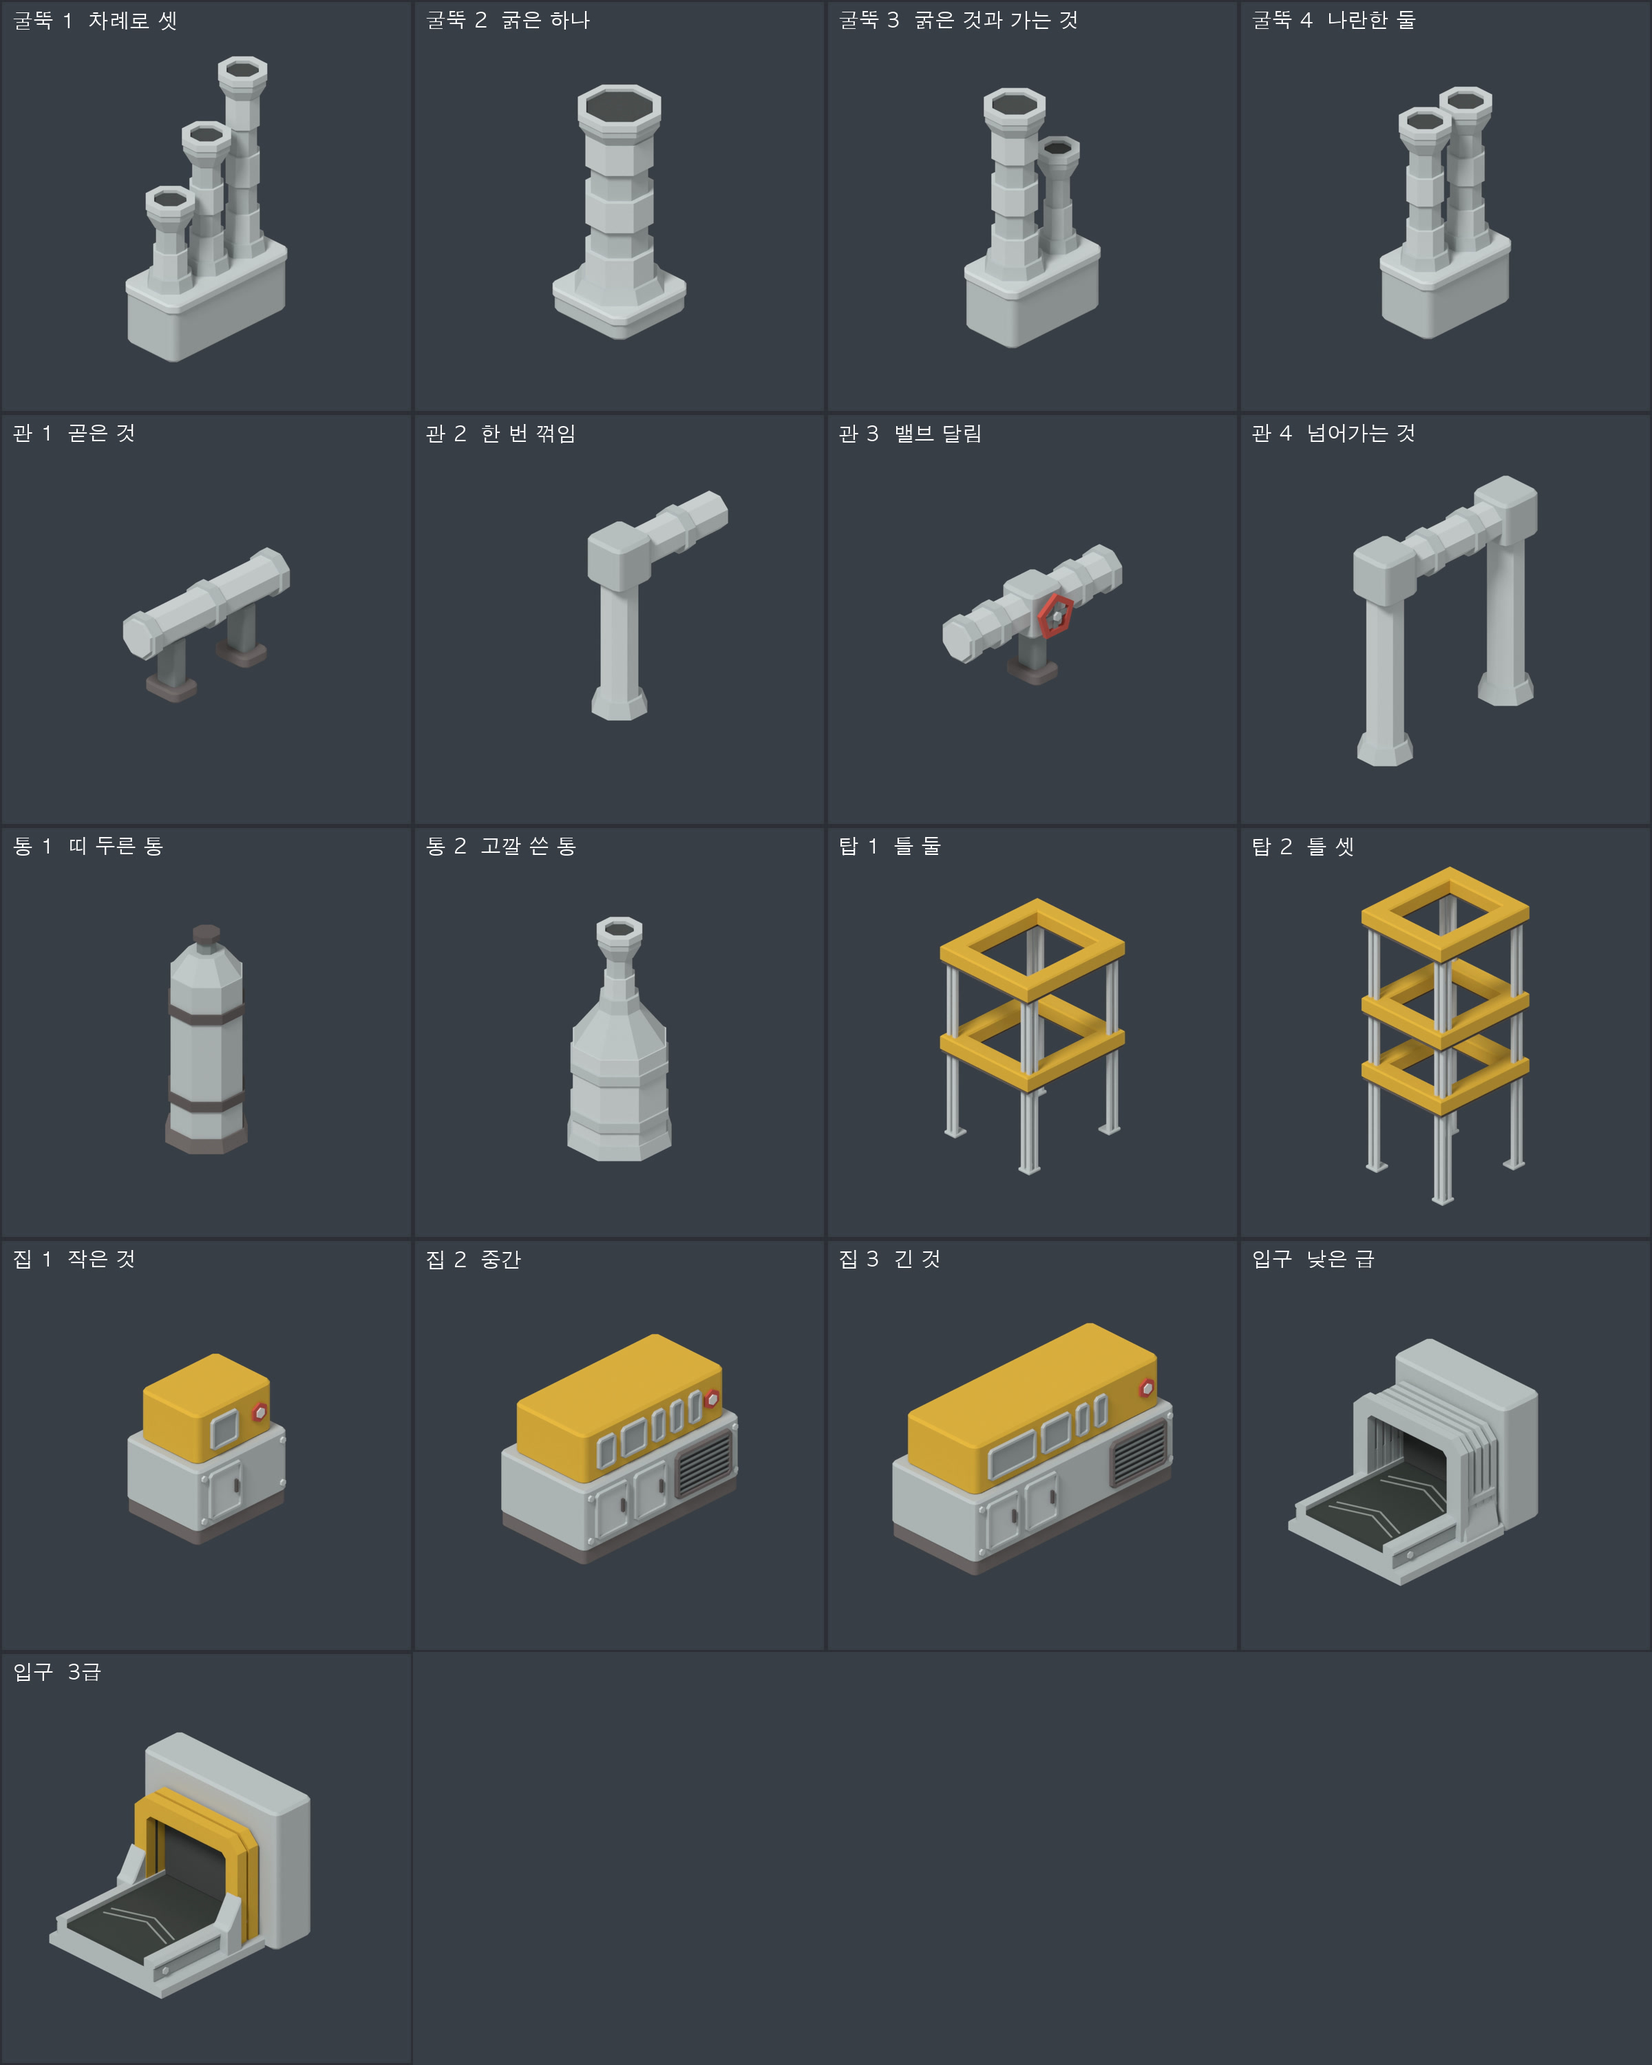
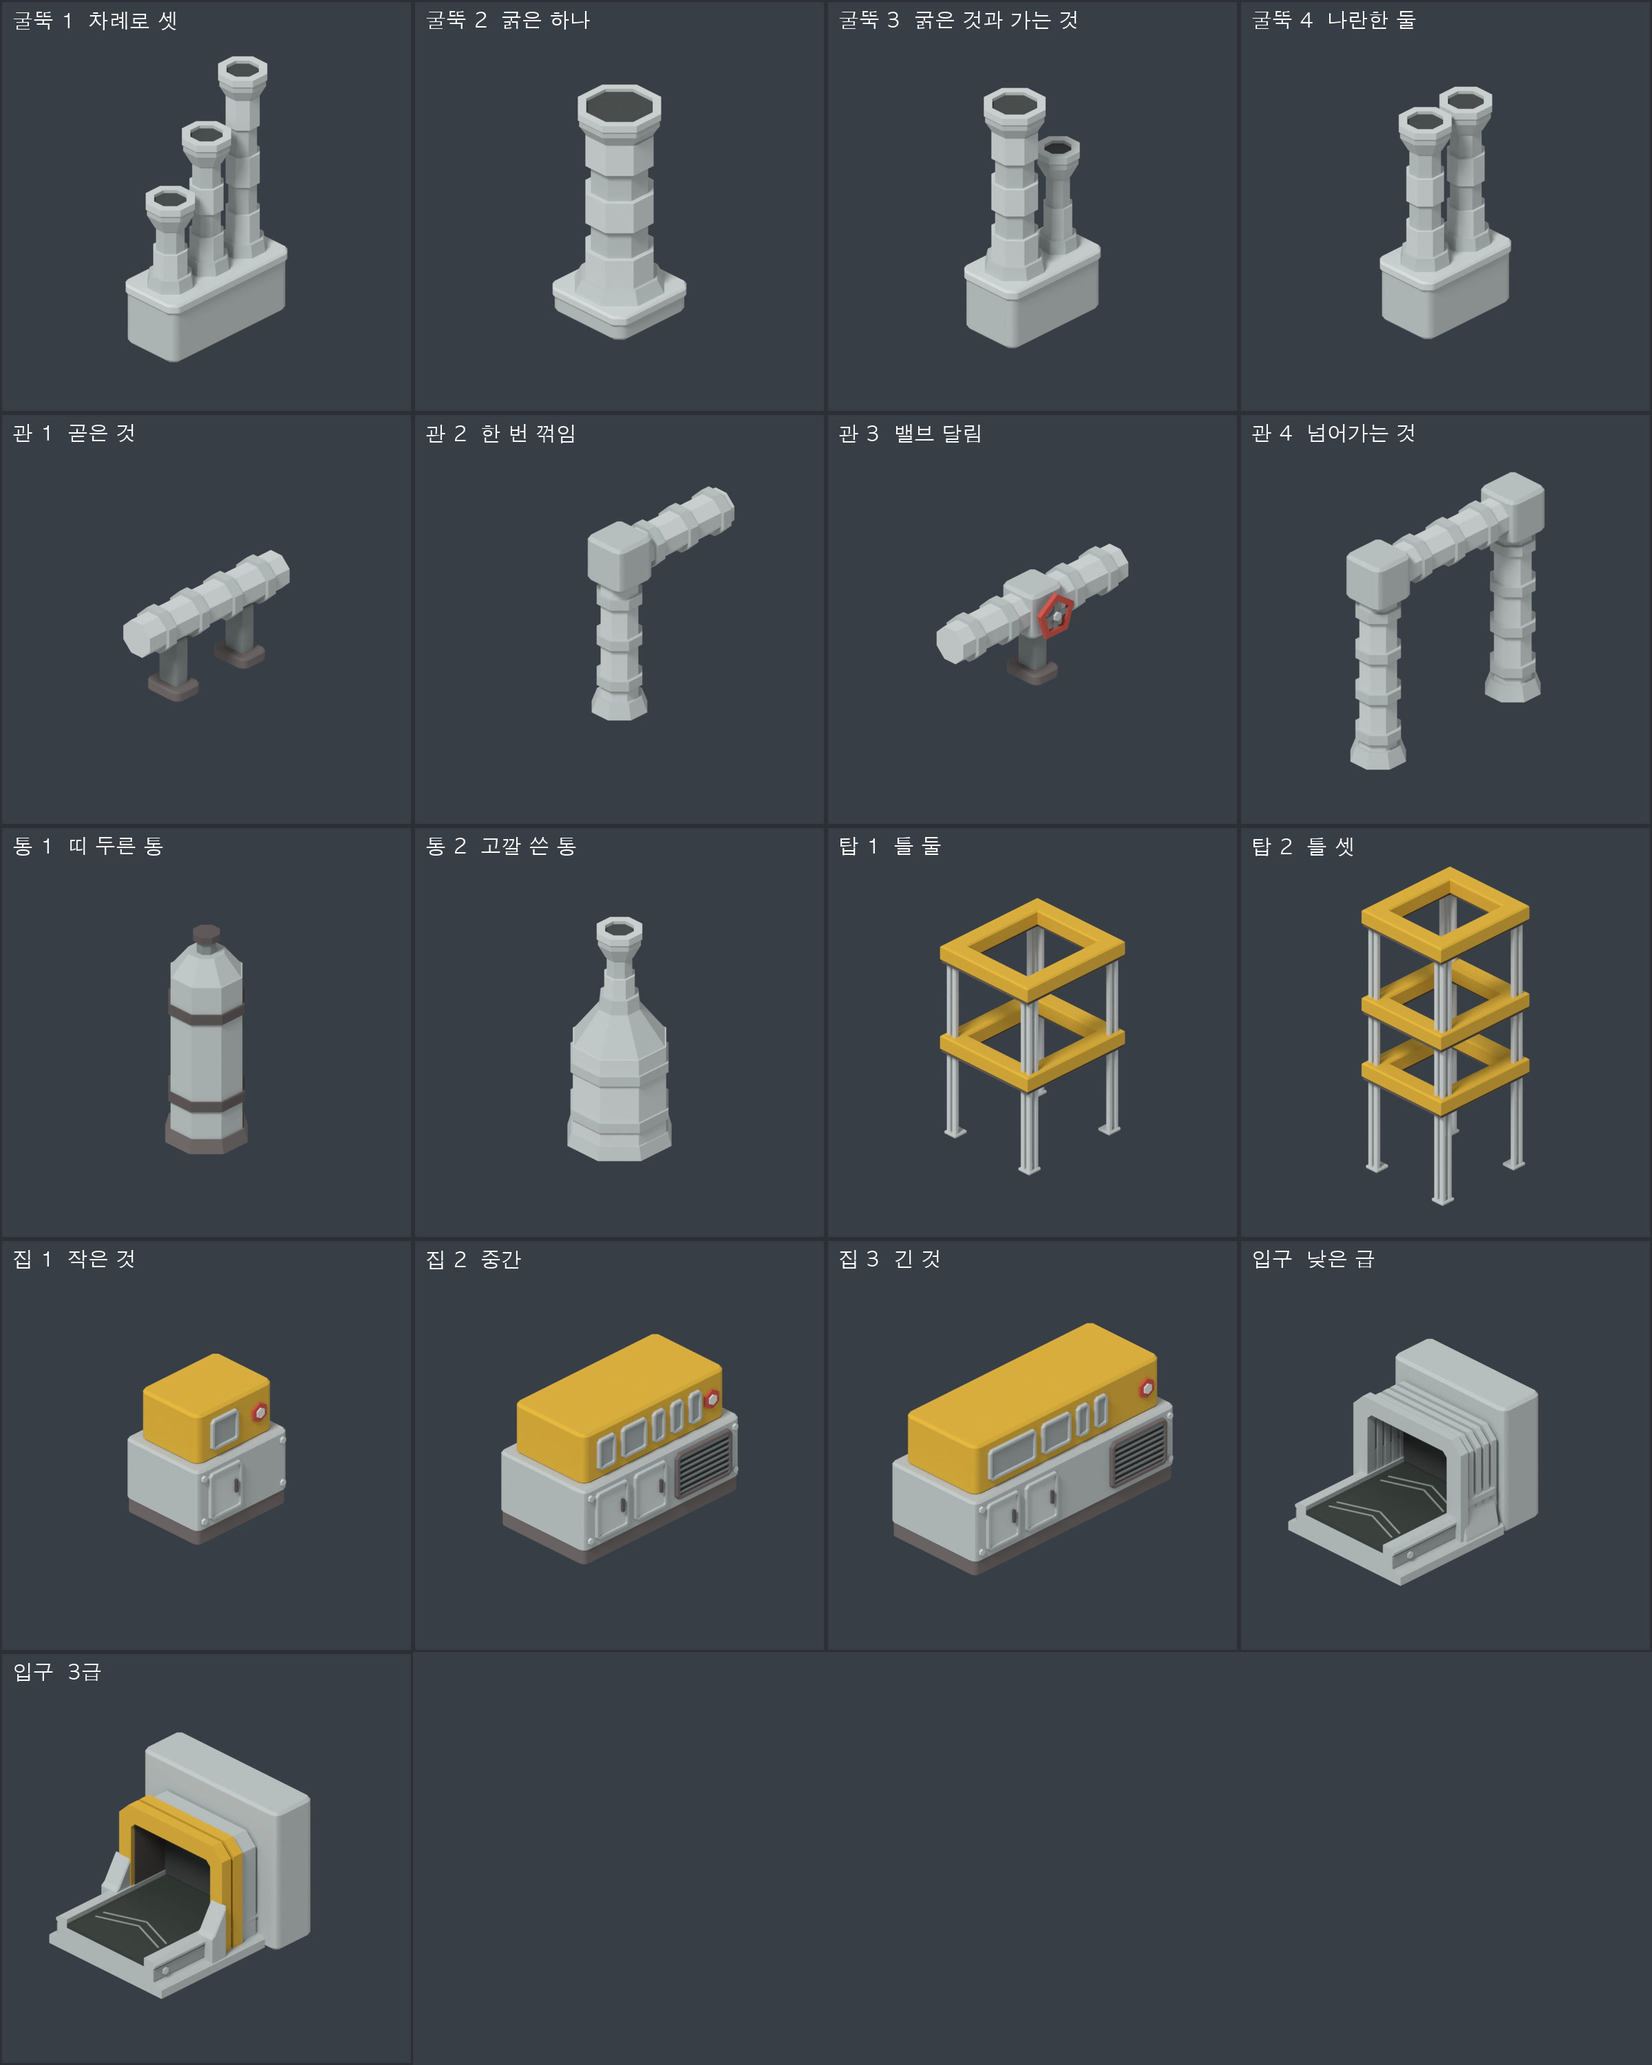
Kit: a deep grade 3 mouth, and every pipe ringed at a regular pitch
The developer on the first catalogue: the grade 3 mouth looked as if
things passed through a wall, where the low grades' cover swallows them;
and no pipe is ever to be plain, the rings repeating along it. mouth3
takes a depth: at 0.32 the painted arches stand out on a grey sleeve
over a dark throat, the tunnel's dark end back at the wall. Every fat
duct in the kit, lying or standing, carries a ring every 0.26.

Claude-Session: https://claude.ai/code/session_01W5XMnWw2PL68atZgiMiQxw

diff --git a/art/v2/kitset.py b/art/v2/kitset.py
@@ -10,8 +10,8 @@
 #   houses   k_house_s, k_house_m, k_house_l
 #   mouths   k_mouth_low (the ribbed folding cover of the low grades), k_mouth3 (grade 3)
 #
-# Joints: a fat duct is 0.105 in radius everywhere; a plenum is 0.36 high and takes a duct in a plain wall
-# 0.18 above its foot; a box elbow is 0.28 on a side.
+# Joints: a fat duct is 0.105 in radius everywhere and carries a ring every 0.26 along it, never plain;
+# a plenum is 0.36 high and takes a duct in a plain wall 0.18 above its foot; a box elbow is 0.28 on a side.
 import math
 from . import hero as _hero
 from . import set2 as s2
@@ -55,10 +55,32 @@ def k_stack_row2(m, z0=0.0):
         s2.fat_stack(m, x, 0, pz, z0 + 1.25, 0.105, foot=0.035)
 
 
-def _run_x(m, x0, x1, y, z, collars=()):
+PITCH = 0.26             # every fat pipe carries a ring at this pitch (the developer: no pipe is ever plain;
+RING = 0.06              # the rings repeat along it, as they do on the former's duct)
+
+
+def _ring_at(lo, hi, clear=0.07):
+    """Where the rings stand on a pipe from lo to hi: at the pitch, centred on the pipe, clear of its ends."""
+    n = max(1, int((hi - lo - 2 * clear) / PITCH) + 1)
+    mid = (lo + hi) / 2
+    return [mid + (k - (n - 1) / 2) * PITCH for k in range(n)]
+
+
+def _run_x(m, x0, x1, y, z, skip=()):
+    """A fat duct along x, ringed at the pitch. `skip` lists (lo, hi) stretches where something else sits
+    on the pipe (a valve), and no ring is put there."""
     m.cyl(RD * s2.K, x1 - x0, ((x0 + x1) / 2, y, z), s2.LT, seg=8, axis="X", rot=(s2.rad(22.5), 0, 0))
-    for x in collars:
-        m.cyl((RD + 0.022) * s2.K, 0.06, (x, y, z), s2.G, seg=8, axis="X", rot=(s2.rad(22.5), 0, 0))
+    for x in _ring_at(x0, x1):
+        if not any(lo - RING <= x <= hi + RING for lo, hi in skip):
+            m.cyl((RD + 0.022) * s2.K, RING, (x, y, z), s2.G, seg=8, axis="X", rot=(s2.rad(22.5), 0, 0))
+
+
+def _run_y(m, y0, y1, x, z, skip=()):
+    """The same along y."""
+    m.cyl(RD * s2.K, y1 - y0, (x, (y0 + y1) / 2, z), s2.LT, seg=8, axis="Y", rot=(0, s2.rad(22.5), 0))
+    for y in _ring_at(y0, y1):
+        if not any(lo - RING <= y <= hi + RING for lo, hi in skip):
+            m.cyl((RD + 0.022) * s2.K, RING, (x, y, z), s2.G, seg=8, axis="Y", rot=(0, s2.rad(22.5), 0))
 
 
 def _pier(m, x, y, top):
@@ -73,28 +95,31 @@ def _elbow(m, x, y, z):
 
 
 def _riser(m, x, y, z0, z1):
+    """A fat duct standing up out of a flared foot, ringed at the pitch."""
     with m.at((x, y, 0)):
         s2.octa(m, RD + 0.05, RD + 0.02, z0 - 0.01, z0 + 0.08, s2.G)
         s2.octa(m, RD, RD, z0 + 0.07, z1, s2.LT)
+        for z in _ring_at(z0 + 0.08, z1):
+            s2.octa(m, RD + 0.022, RD + 0.022, z - RING / 2, z + RING / 2, s2.G)
 
 
 def k_pipe_straight(m, L=1.1, z=0.45):
-    """Pipe, straight: a fat duct on two piers, a collar at each end and one in the middle."""
-    _run_x(m, -L / 2, L / 2, 0, z, collars=(-L / 2 + 0.05, 0.0, L / 2 - 0.05))
-    for x in (-L / 4, L / 4):
+    """Pipe, straight: a fat ringed duct on two piers."""
+    _run_x(m, -L / 2, L / 2, 0, z)
+    for x in (-PITCH, PITCH):
         _pier(m, x, 0, z - RD + 0.01)
 
 
-def k_pipe_elbow(m, H=0.95, L=0.75, z0=0.0):
-    """Pipe, one turn: up out of a foot, through a box elbow, and away level."""
+def k_pipe_elbow(m, H=0.95, L=0.80, z0=0.0):
+    """Pipe, one turn: up out of a foot, through a box elbow, and away level, ringed all the way."""
     _riser(m, 0, 0, z0, z0 + H - 0.13)
     _elbow(m, 0, 0, z0 + H)
-    _run_x(m, 0.14 - 0.01, L, 0, z0 + H, collars=((0.14 + L) / 2,))
+    _run_x(m, 0.14 - 0.01, L, 0, z0 + H)
 
 
-def k_pipe_valve(m, L=1.2, z=0.45):
-    """Pipe, with a valve: a fat duct through a valve box with a five-sided handwheel, the box on a pier."""
-    _run_x(m, -L / 2, L / 2, 0, z, collars=(-L / 2 + 0.05, -L / 4 - 0.02, L / 4 + 0.02, L / 2 - 0.05))
+def k_pipe_valve(m, L=1.3, z=0.45):
+    """Pipe, with a valve: a fat ringed duct through a valve box with a five-sided handwheel, the box on a pier."""
+    _run_x(m, -L / 2, L / 2, 0, z, skip=((-0.13, 0.13),))
     with m.at((0, 0, 0)):
         s2.slab(m, 0.13, 0.13, z - 0.14, z + 0.14, 0.03, s2.G, bevel=0.02)
     _pier(m, 0, 0, z - 0.13)
@@ -102,12 +127,12 @@ def k_pipe_valve(m, L=1.2, z=0.45):
         s2.handwheel(m, 0.14)
 
 
-def k_pipe_bridge(m, H=1.15, L=0.95, z0=0.0):
-    """Pipe, over: up, across through two box elbows, and down again (the former's duct)."""
+def k_pipe_bridge(m, H=1.15, L=1.06, z0=0.0):
+    """Pipe, over: up, across through two box elbows, and down again (the former's duct), ringed all the way."""
     for x in (-L / 2, L / 2):
         _riser(m, x, 0, z0, z0 + H - 0.13)
         _elbow(m, x, 0, z0 + H)
-    _run_x(m, -L / 2 + 0.13, L / 2 - 0.13, 0, z0 + H, collars=(-L / 6, L / 6))
+    _run_x(m, -L / 2 + 0.13, L / 2 - 0.13, 0, z0 + H)
 
 
 def k_drum_band(m, z0=0.0):
@@ -214,9 +239,10 @@ def k_mouth_low(m):
 
 
 def k_mouth3(m, paint=None):
-    """Mouth of grade 3: two painted arches with a dark seam, each rail rising into the arch's leg."""
-    s2.belt_stub(m, -0.9, 0.02, -0.55, -0.80)
-    s2.mouth3(m, 0.0, -1, paint or s2.PY)
+    """Mouth of grade 3: two painted arches with a dark seam on a sleeve, a dark throat behind them, each
+    rail rising into the arch's leg."""
+    s2.belt_stub(m, -0.9, 0.02, -0.62, -0.80)
+    s2.mouth3(m, 0.0, -1, paint or s2.PY, depth=0.32)       # as deep as the low grades' cover, so that things go in, not through
     with m.at((0.19, 0, 0)):
         _stub_wall(m, 0.60, 1.0)
 

diff --git a/art/v2/set2.py b/art/v2/set2.py
@@ -3612,23 +3612,34 @@ mill10.frame, mill10.shadow, mill10.res = {"iso": (5.6, 1.45), "side": (5.0, 1.5
 _hero.HEROES["mill10"] = mill10
 
 
-def mouth3(m, xa, d, paint):
+def mouth3(m, xa, d, paint, depth=0.182):
     """The grade 3 mouth, to be built with the belt's middle at y = 0: two painted arches with a dark
     seam between them standing proud of the wall at xa (opening toward d), the tunnel's dark, and each
     rail rising in its own colour into the arch's leg. The developer's rule: every conveyor mouth of
     one grade looks the same (grade 1 machines such as the smelter share the ribbed folding cover,
-    d.cover; grade 2 and grade 3 each have their own), so every grade 3 machine calls this."""
+    d.cover; grade 2 and grade 3 each have their own), so every grade 3 machine calls this.
+    With depth above 0.182 the painted arches stand that far out from the wall on a plain grey sleeve,
+    the throat behind them is lined dark, and the tunnel's dark end stays back at the wall: the
+    developer found the shallow mouth looked as if things passed through a wall, where the low grades'
+    cover swallows them (0.318 deep). 0.32 matches it. Returns how far out the mouth's face stands."""
     g = 2 * (BH - 0.305)
-    px = xa
+    sleeve = max(0.0, depth - 0.182)
+    if sleeve:
+        a_, b_ = sorted((xa, xa + d * sleeve))
+        m.prism(arch_pts(0.80 + g, 0.80, hole_top=0.702, hw=BH + 0.012, c=0.085, ci=0.035), a_, b_, "X", G)
+        a_, b_ = sorted((xa + d * 0.02, xa + d * (depth - 0.03)))                                         # the throat's dark lining
+        m.prism(arch_pts(2 * (BH + 0.03), 0.72, hole_top=0.694, hw=BH + 0.004, c=0.05, ci=0.035), a_, b_, "X", TD)
+    px = xa + d * sleeve
     for th, w, tp, mk in ((0.08, 0.84 + g, 0.82, paint), (0.022, 0.79 + g, 0.795, SLIT), (0.08, 0.84 + g, 0.82, paint)):
         a_, b_ = sorted((px, px + d * th))
         m.prism(arch_pts(w, tp, hole_top=0.70, hw=BH + 0.01, c=0.085, ci=0.035), a_, b_, "X", mk)
         px += d * th
     m.box((0.02, 2 * BH + 0.01, 0.694 - BZ), (xa + d * 0.012, 0, (0.706 + BZ) / 2), SLIT)
-    xo = xa + d * 0.182
+    xo = xa + d * depth
     for sy_ in SIDES:
         pts = [(xo - d * 0.006, 0.03), (xo + d * 0.13, 0.03), (xo + d * 0.13, 0.24), (xo + d * 0.10, 0.262), (xo - d * 0.006, 0.44)]
         bprism(m, pts if d > 0 else pts[::-1], *sorted((sy_ * 0.358, sy_ * 0.494)), "Y", R, bevel=0.008)
+    return depth
 
 
 def mill11(m, paint="h_p1"):

diff --git a/docs/modeling-principles.md b/docs/modeling-principles.md
@@ -52,6 +52,8 @@
 - **새 기계는 만들기 전에 생김새부터 이야기합니다.** 한 기계가 확정됐다고 다음 기계를 같은 틀로 바로 만들지 않습니다(개발자: "생김새부터 일단 생각을 좀 해보자고.. 바로 만들지 말고").
 - **기계는 한 대씩 따로 설계하고, 그 기계가 하는 일이 보이게 합니다 [개발자 결정, 2026-10-09].** 아일랜드는 공통 몸통에 덩어리 하나와 색만 바꿔 기계를 구분합니다(제철소와 청동 정련소는 앞 절반이 같은 모델). 그래서 개발자의 말대로 "제철소 느낌이 확실히 나지는 않고 그냥 들어갔다 나오는 기계처럼" 보입니다. 우리는 그 길을 가지 않습니다: "(기계마다 따로 하는 쪽이) 진정성이 보이긴 하지." 부품의 말씨(`former5`의 부품)는 함께 쓰되, 형태는 기계마다 그 일에서 나옵니다.
 - **하는 일을 그림처럼 보여 주려 애쓰지 않습니다 [개발자 결정, 2026-10-09].** 위의 "그 기계가 하는 일이 보이게"를 제철소에 적용해 실제 공정(고로, 전로, 도가니, 전기로)을 차례로 따져 봤고, 개발자가 실제 전기로의 모습을 찾아본 뒤 "ㅈㄴ 짜치게 생겼다"며 접었습니다. 결론: "그냥 우리도 적당히 복잡하고 적당히 심플하게 생긴 기계 안에 들어가서 강철이 되어 나오는 그런 느낌으로 가야겠다." 기계는 한 대씩 따로 설계하되, 속에서 벌어지는 일을 겉으로 재현하지는 않습니다. 재료가 들어가고 물건이 나오는, 그럴듯한 기계이면 됩니다. 복잡함의 기준은 확정된 `former5`입니다.
+- **관은 밋밋하게 두지 않습니다. 모든 관에 고리가 일정한 간격으로 되풀이됩니다 [개발자 지시, 2026-10-09].** "모든 관은 항상 밋밋하지 않게 반복적인 패턴이 있게. 지금도 관에 링 같은 애들이 반복되는 것처럼." 굵은 관은 누운 것이든 선 것이든 0.26칸마다 고리 하나를 두릅니다(`kitset.PITCH`, `_run_x`, `_run_y`, `_riser`). 밸브처럼 다른 것이 앉은 자리만 건너뜁니다. 굴뚝은 마디가 번갈아 굵어지는 것이 그 되풀이입니다(`fat_stack`).
+- **입구는 깊어야 합니다. 물건이 벽을 뚫고 지나가는 것처럼 보이면 안 됩니다 [개발자 지시, 2026-10-09].** 낮은 급의 주름 덮개는 0.318칸 깊이라 물건이 쑥 들어가는 느낌이 나는데, 3급의 문틀은 0.18칸이라 벽에 붙은 액자 같았습니다. 3급 입구도 0.32칸으로 깊게 합니다: 칠한 문틀은 앞으로 내고, 벽까지는 회색 소매로 잇고, 속은 짙게 덧대고, 어둠은 벽 쪽 깊은 데 둡니다(`mouth3(..., depth=0.32)`). 이 깊이만큼 기계의 벽은 칸 가장자리에서 물러나야 합니다.
 - **부품 묶음을 미리 만들어 두고, 기계는 그것을 조립해 만듭니다 [개발자 제안, 2026-10-09].** "저런 크고 작은 부분들을 미리 모델링해 두고, 나중에는 조립하는 방식." 묶음은 `art/v2/kitset.py`에 있고, 그림은 `docs/img/kit/kit-sheet.jpg`입니다: 굴뚝 묶음 넷, 관 묶음 넷, 통 둘, 틀 탑 둘, 집 셋, 급마다의 입구. 묶음마다 개발자가 통과·수정·폐기를 정하고, 통과한 것만 기계에 씁니다(아직 평가 전). 지킬 것 셋: ① 기계마다 그 기계에만 있는 덩어리 하나는 따로 만든다(묶음만으로 짜면 다 비슷해진다). ② 묶음은 정해진 자리끼리만 잇는다(굵은 관의 반지름 0.105, 모음통 높이 0.36, 관이 모음통에 들어가는 높이는 발에서 0.18, 상자 이음은 한 변 0.28). ③ 묶음이 형태를 대신해 주지는 않는다. 덩어리를 어떻게 놓을지는 기계마다 따로 정한다.
 - **기계마다 컨셉을 먼저 설계하고, 그다음에 모델을 만듭니다.** 2026-10-08 하루 동안 성형기 하나를 확정한 뒤, 그 틀로 용광로와 제철소를 찍어 내려다가 열 번 넘게 빗나갔습니다. 개발자: "우리 컨셉을 정확히 잡고 가는 게 나을 듯. 그냥 틀만 잡고 모델 양산하려 했는데 포기. 기계 하나당 컨셉들 제대로 명확하게 설계하고 들어가자." 컨셉이 글로 정해지지 않은 기계는 모델을 만들지 않습니다.
 - **꾸밈이 아니라 형태를 먼저 잡습니다.** 상자 두 개에 성형기의 부품을 붙인 제철소(`mill9`)에 개발자가 "존나 밋밋함. 그냥 사각형 위에 꾸며 두는 느낌"이라고 했습니다(2026-10-08). 상자에 붙이는 것을 바꿔 봐야 상자입니다. `former5`가 통한 까닭은 뼈대(기둥과 틀로 된 열린 탑)가 형태이고, 덩어리가 그 안에 매달려 있고, 굵은 관이 허공을 건너기 때문입니다. 새 기계는 "뼈대 안에 무엇을 거는가"부터 정합니다. 걸리는 덩어리는 상자가 아니라 그 기계의 일을 하는 모양(통, 머리, 롤러)이어야 하고, 기울이거나 좁히는 식으로 네모반듯함을 깹니다. `mill10`(탑 안에 축으로 매달려 기운 쇳물 통)이 이렇게 지은 것입니다.
